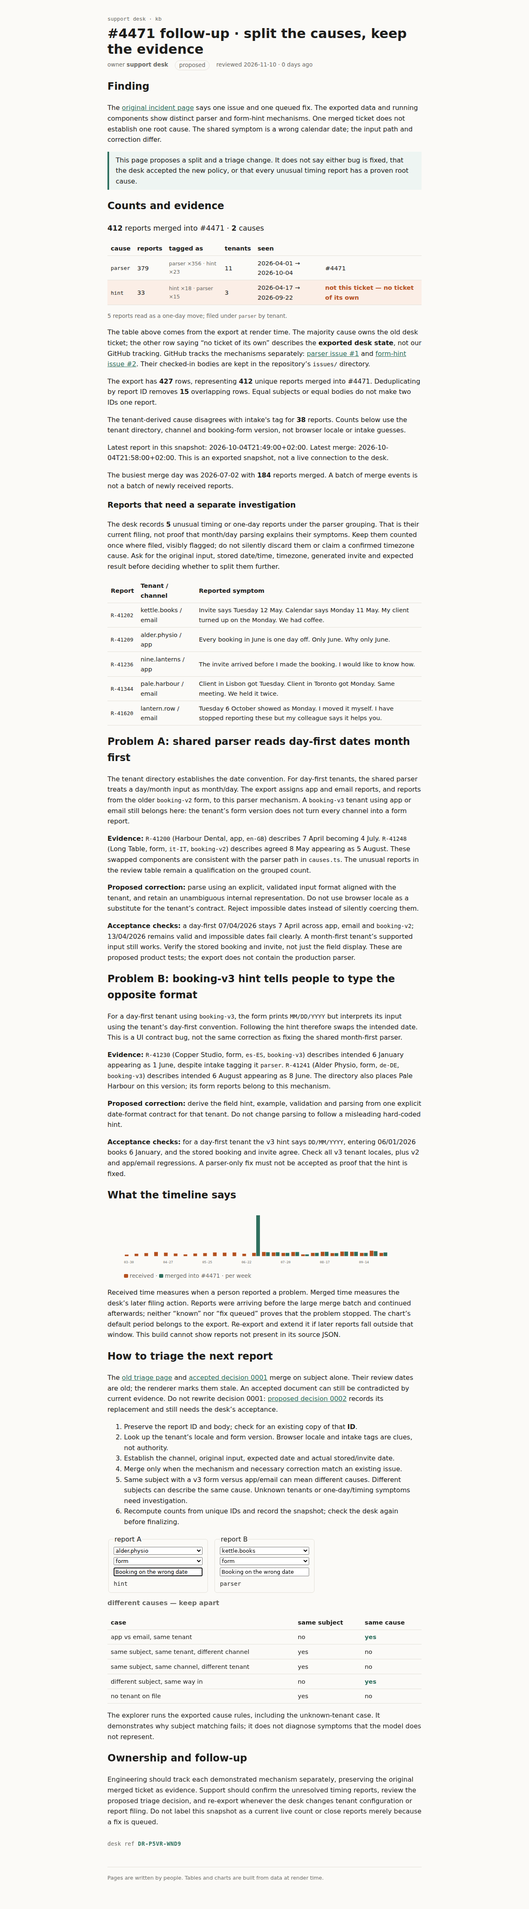
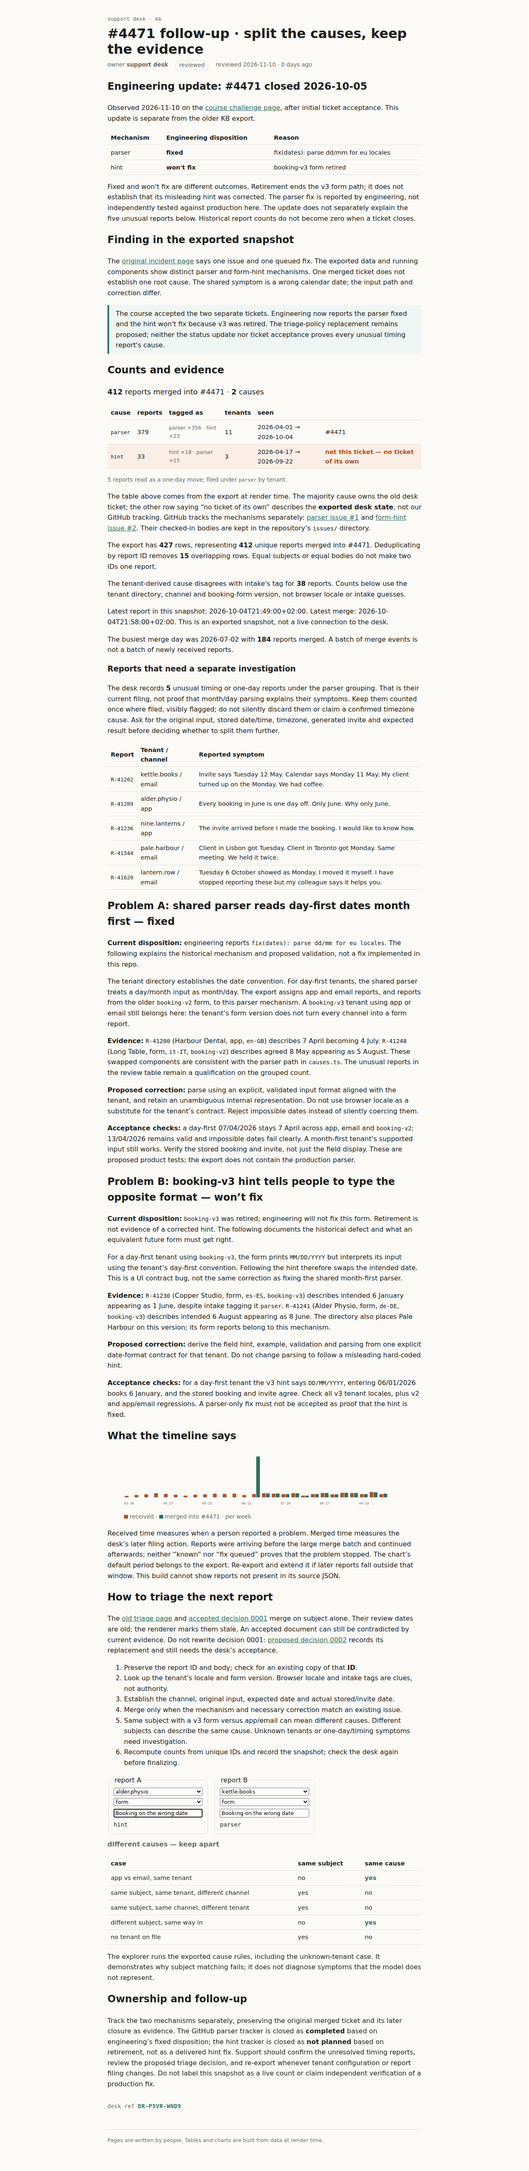
Record engineering closure: parser fixed, v3 hint retired

Changed region(s): [[0.1875, 0.0, 0.7812, 0.9978], [0.7188, 0.0, 0.75, 0.0312]]

diff --git a/docs/kb/incidents/4471-follow-up/index.html b/docs/kb/incidents/4471-follow-up/index.html
@@ -57,11 +57,17 @@
   .stamp.svelte-1280m42 b:where(.svelte-1280m42) { color: var(--accent); letter-spacing: 0.04em; }
   .missing.svelte-1280m42 { color: var(--warn); }
 
[2 lines of base64/hex data omitted]
+    after initial ticket acceptance. This update is separate from the older KB export.</p> <table><thead><tr><th>Mechanism</th><th>Engineering disposition</th><th>Reason</th></tr></thead><tbody><tr><td>parser</td><td><strong>fixed</strong></td><td>fix(dates): parse dd/mm for eu locales</td></tr><tr><td>hint</td><td><strong>won't fix</strong></td><td>booking-v3 form retired</td></tr></tbody></table> <p>Fixed and won't fix are different outcomes. Retirement ends the v3 form path;
+    it does not establish that its misleading hint was corrected.
+    The parser fix is reported by engineering, not independently tested against production here.
+    The update does not separately explain the five unusual reports below.
+    Historical report counts do not become zero when a ticket closes.</p></section><!----> <h2>Finding in the exported snapshot</h2> <p>The <a href="/kb/incidents/4471">original incident page</a> says one issue and one queued fix.
 The exported data and running components show distinct parser and form-hint mechanisms.
 One merged ticket does not establish one root cause. The shared symptom is a wrong calendar date;
-the input path and correction differ.</p> <aside class="note svelte-17bri61"><!---->This page proposes a split and a triage change. It does not say either bug is fixed, that the
-desk accepted the new policy, or that every unusual timing report has a proven root cause.<!----></aside><!----> <h2>Counts and evidence</h2> <p class="sum svelte-12oyimm"><strong>412</strong> reports merged into #4471 · <strong>2</strong> causes</p> <table><thead><tr><th>cause</th><th>reports</th><th>tagged as</th><th>tenants</th><th>seen</th><th></th></tr></thead><tbody><!--[--><tr class="svelte-12oyimm"><td class="svelte-12oyimm"><code>parser</code></td><td class="svelte-12oyimm">379</td><td class="tags svelte-12oyimm">parser ×356 · hint ×23</td><td class="svelte-12oyimm">11</td><td class="svelte-12oyimm">2026-04-01 → 2026-10-04</td><td class="svelte-12oyimm">#4471</td></tr><tr class="svelte-12oyimm wrong"><td class="svelte-12oyimm"><code>hint</code></td><td class="svelte-12oyimm">33</td><td class="tags svelte-12oyimm">hint ×18 · parser ×15</td><td class="svelte-12oyimm">3</td><td class="svelte-12oyimm">2026-04-17 → 2026-09-22</td><td class="svelte-12oyimm">not this ticket — no ticket of its own</td></tr><!--]--></tbody></table> <!--[--><!--[0--><p class="note svelte-12oyimm">5 reports read as a one-day move; filed under <code>parser</code> by tenant.</p><!--]--><!--[-1--><!--]--><!--]--><!----> <p>The table above comes from the export at render time. The majority cause owns the old desk ticket;
+the input path and correction differ.</p> <aside class="note svelte-17bri61"><!---->The course accepted the two separate tickets. Engineering now reports the parser fixed and the
+hint won't fix because v3 was retired. The triage-policy replacement remains proposed;
+neither the status update nor ticket acceptance proves every unusual timing report's cause.<!----></aside><!----> <h2>Counts and evidence</h2> <p class="sum svelte-12oyimm"><strong>412</strong> reports merged into #4471 · <strong>2</strong> causes</p> <table><thead><tr><th>cause</th><th>reports</th><th>tagged as</th><th>tenants</th><th>seen</th><th></th></tr></thead><tbody><!--[--><tr class="svelte-12oyimm"><td class="svelte-12oyimm"><code>parser</code></td><td class="svelte-12oyimm">379</td><td class="tags svelte-12oyimm">parser ×356 · hint ×23</td><td class="svelte-12oyimm">11</td><td class="svelte-12oyimm">2026-04-01 → 2026-10-04</td><td class="svelte-12oyimm">#4471</td></tr><tr class="svelte-12oyimm wrong"><td class="svelte-12oyimm"><code>hint</code></td><td class="svelte-12oyimm">33</td><td class="tags svelte-12oyimm">hint ×18 · parser ×15</td><td class="svelte-12oyimm">3</td><td class="svelte-12oyimm">2026-04-17 → 2026-09-22</td><td class="svelte-12oyimm">not this ticket — no ticket of its own</td></tr><!--]--></tbody></table> <!--[--><!--[0--><p class="note svelte-12oyimm">5 reports read as a one-day move; filed under <code>parser</code> by tenant.</p><!--]--><!--[-1--><!--]--><!--]--><!----> <p>The table above comes from the export at render time. The majority cause owns the old desk ticket;
 the other row saying “no ticket of its own” describes the <strong>exported desk state</strong>, not our GitHub tracking.
 GitHub tracks the mechanisms separately: <a href="https://github.com/piotrczarnak/mega-s01e03-what-it-shows/issues/1" rel="nofollow">parser issue #1</a> and <a href="https://github.com/piotrczarnak/mega-s01e03-what-it-shows/issues/2" rel="nofollow">form-hint issue #2</a>.
 Their checked-in bodies are kept in the repository’s <code>issues/</code> directory.</p> <section aria-label="Snapshot and counting method"><p>The export has <strong>427</strong> rows, representing <strong>412</strong> unique reports merged into #4471.
@@ -73,7 +79,8 @@ Their checked-in bodies are kept in the repository’s <code>issues/</code> dire
       A batch of merge events is not a batch of newly received reports.</p><!--]--></section> <h3>Reports that need a separate investigation</h3> <p>The desk records <strong>5</strong> unusual timing or one-day reports under the parser grouping.
   That is their current filing, not proof that month/day parsing explains their symptoms.
   Keep them counted once where filed, visibly flagged; do not silently discard them or claim a confirmed timezone cause.
-  Ask for the original input, stored date/time, timezone, generated invite and expected result before deciding whether to split them further.</p> <table><thead><tr><th>Report</th><th>Tenant / channel</th><th>Reported symptom</th></tr></thead><tbody><!--[--><tr><td><code>R-41202</code></td><td>kettle.books / email</td><td>Invite says Tuesday 12 May. Calendar says Monday 11 May. My client turned up on the Monday. We had coffee.</td></tr><tr><td><code>R-41209</code></td><td>alder.physio / app</td><td>Every booking in June is one day off. Only June. Why only June.</td></tr><tr><td><code>R-41236</code></td><td>nine.lanterns / app</td><td>The invite arrived before I made the booking. I would like to know how.</td></tr><tr><td><code>R-41344</code></td><td>pale.harbour / email</td><td>Client in Lisbon got Tuesday. Client in Toronto got Monday. Same meeting. We held it twice.</td></tr><tr><td><code>R-41620</code></td><td>lantern.row / email</td><td>Tuesday 6 October showed as Monday. I moved it myself. I have stopped reporting these but my colleague says it helps you.</td></tr><!--]--></tbody></table><!----> <h2>Problem A: shared parser reads day-first dates month first</h2> <p>The tenant directory establishes the date convention. For day-first tenants, the shared parser
+  Ask for the original input, stored date/time, timezone, generated invite and expected result before deciding whether to split them further.</p> <table><thead><tr><th>Report</th><th>Tenant / channel</th><th>Reported symptom</th></tr></thead><tbody><!--[--><tr><td><code>R-41202</code></td><td>kettle.books / email</td><td>Invite says Tuesday 12 May. Calendar says Monday 11 May. My client turned up on the Monday. We had coffee.</td></tr><tr><td><code>R-41209</code></td><td>alder.physio / app</td><td>Every booking in June is one day off. Only June. Why only June.</td></tr><tr><td><code>R-41236</code></td><td>nine.lanterns / app</td><td>The invite arrived before I made the booking. I would like to know how.</td></tr><tr><td><code>R-41344</code></td><td>pale.harbour / email</td><td>Client in Lisbon got Tuesday. Client in Toronto got Monday. Same meeting. We held it twice.</td></tr><tr><td><code>R-41620</code></td><td>lantern.row / email</td><td>Tuesday 6 October showed as Monday. I moved it myself. I have stopped reporting these but my colleague says it helps you.</td></tr><!--]--></tbody></table><!----> <h2>Problem A: shared parser reads day-first dates month first — fixed</h2> <p><strong>Current disposition:</strong> engineering reports <code>fix(dates): parse dd/mm for eu locales</code>.
+The following explains the historical mechanism and proposed validation, not a fix implemented in this repo.</p> <p>The tenant directory establishes the date convention. For day-first tenants, the shared parser
 treats a day/month input as month/day. The export assigns app and email reports, and reports from
 the older <code>booking-v2</code> form, to this parser mechanism. A <code>booking-v3</code> tenant using app or email
 still belongs here: the tenant’s form version does not turn every channel into a form report.</p> <p><strong>Evidence:</strong> <code>R-41200</code> (Harbour Dental, app, <code>en-GB</code>) describes 7 April becoming 4 July. <code>R-41248</code> (Long Table, form, <code>it-IT</code>, <code>booking-v2</code>) describes agreed 8 May appearing as 5 August.
@@ -83,7 +90,9 @@ and retain an unambiguous internal representation. Do not use browser locale as 
 for the tenant’s contract. Reject impossible dates instead of silently coercing them.</p> <p><strong>Acceptance checks:</strong> a day-first 07/04/2026 stays 7 April across app, email and <code>booking-v2</code>;
 13/04/2026 remains valid and impossible dates fail clearly. A month-first tenant’s supported
 input still works. Verify the stored booking and invite, not just the field display.
-These are proposed product tests; the export does not contain the production parser.</p> <h2>Problem B: booking-v3 hint tells people to type the opposite format</h2> <p>For a day-first tenant using <code>booking-v3</code>, the form prints <code>MM/DD/YYYY</code> but interprets its input
+These are proposed product tests; the export does not contain the production parser.</p> <h2>Problem B: booking-v3 hint tells people to type the opposite format — won’t fix</h2> <p><strong>Current disposition:</strong> <code>booking-v3</code> was retired; engineering will not fix this form.
+Retirement is not evidence of a corrected hint. The following documents the historical defect
+and what an equivalent future form must get right.</p> <p>For a day-first tenant using <code>booking-v3</code>, the form prints <code>MM/DD/YYYY</code> but interprets its input
 using the tenant’s day-first convention. Following the hint therefore swaps the intended date.
 This is a UI contract bug, not the same correction as fixing the shared month-first parser.</p> <p><strong>Evidence:</strong> <code>R-41230</code> (Copper Studio, form, <code>es-ES</code>, <code>booking-v3</code>) describes intended 6 January
 appearing as 1 June, despite intake tagging it <code>parser</code>. <code>R-41241</code> (Alder Physio, form, <code>de-DE</code>, <code>booking-v3</code>) describes intended 6 August appearing as 8 June.
@@ -98,7 +107,9 @@ outside that window. This build cannot show reports not present in its source JS
 An accepted document can still be contradicted by current evidence.
 Do not rewrite decision 0001: <a href="/kb/decisions/0002-dedupe-by-cause">proposed decision 0002</a> records its replacement and still needs the desk’s acceptance.</p> <ol><li>Preserve the report ID and body; check for an existing copy of that <strong>ID</strong>.</li> <li>Look up the tenant’s locale and form version. Browser locale and intake tags are clues, not authority.</li> <li>Establish the channel, original input, expected date and actual stored/invite date.</li> <li>Merge only when the mechanism and necessary correction match an existing issue.</li> <li>Same subject with a v3 form versus app/email can mean different causes. Different subjects
 can describe the same cause. Unknown tenants or one-day/timing symptoms need investigation.</li> <li>Recompute counts from unique IDs and record the snapshot; check the desk again before finalizing.</li></ol> <div class="try svelte-gq0h2h"><!--[--><fieldset class="svelte-gq0h2h"><legend>report A</legend> <select aria-label="tenant"><!--[--><option selected="">alder.physio</option><option>copper.studio</option><option>harbour.dental</option><option>kettle.books</option><option>lantern.row</option><option>long.table</option><option>morrow.tax</option><option>nine.lanterns</option><option>pale.harbour</option><option>ridge.clinic</option><option>stone.and.sons</option><!--]--></select> <select aria-label="channel"><!--[--><option>app</option><option>email</option><option selected="">form</option><!--]--></select> <input value="Booking on the wrong date" aria-label="subject"/> <code>hint</code></fieldset><fieldset class="svelte-gq0h2h"><legend>report B</legend> <select aria-label="tenant"><!--[--><option>alder.physio</option><option>copper.studio</option><option>harbour.dental</option><option selected="">kettle.books</option><option>lantern.row</option><option>long.table</option><option>morrow.tax</option><option>nine.lanterns</option><option>pale.harbour</option><option>ridge.clinic</option><option>stone.and.sons</option><!--]--></select> <select aria-label="channel"><!--[--><option>app</option><option>email</option><option selected="">form</option><!--]--></select> <input value="Booking on the wrong date" aria-label="subject"/> <code>parser</code></fieldset><!--]--> <p class="verdict svelte-gq0h2h">different causes — keep apart</p></div> <table><thead><tr><th>case</th><th>same subject</th><th>same cause</th></tr></thead><tbody><!--[--><tr><td>app vs email, same tenant</td><td>no</td><td class="svelte-gq0h2h dup">yes</td></tr><tr><td>same subject, same tenant, different channel</td><td>yes</td><td class="svelte-gq0h2h">no</td></tr><tr><td>same subject, same channel, different tenant</td><td>yes</td><td class="svelte-gq0h2h">no</td></tr><tr><td>different subject, same way in</td><td>no</td><td class="svelte-gq0h2h dup">yes</td></tr><tr><td>no tenant on file</td><td>yes</td><td class="svelte-gq0h2h">no</td></tr><!--]--></tbody></table><!----> <p>The explorer runs the exported cause rules, including the unknown-tenant case. It demonstrates
-why subject matching fails; it does not diagnose symptoms that the model does not represent.</p> <h2>Ownership and follow-up</h2> <p>Engineering should track each demonstrated mechanism separately, preserving the original merged
-ticket as evidence. Support should confirm the unresolved timing reports, review the proposed
-triage decision, and re-export whenever the desk changes tenant configuration or report filing.
-Do not label this snapshot as a current live count or close reports merely because a fix is queued.</p> <!--[0--><p class="stamp svelte-1280m42">desk ref <b class="svelte-1280m42">DR-P5VR-WND9</b></p><!--]--><!----><!----></main> <footer class="svelte-e2jw2j">Pages are written by people. Tables and charts are built from data at render time.</footer></div><!--]--></body></html>
+why subject matching fails; it does not diagnose symptoms that the model does not represent.</p> <h2>Ownership and follow-up</h2> <p>Track the two mechanisms separately, preserving the original merged ticket and its later closure
+as evidence. The GitHub parser tracker is closed as <strong>completed</strong> based on engineering’s fixed disposition;
+the hint tracker is closed as <strong>not planned</strong> based on retirement, not as a delivered hint fix.
+Support should confirm the unresolved timing reports, review the proposed triage decision,
+and re-export whenever tenant configuration or report filing changes.
+Do not label this snapshot as a live count or claim independent verification of a production fix.</p> <!--[0--><p class="stamp svelte-1280m42">desk ref <b class="svelte-1280m42">DR-P5VR-WND9</b></p><!--]--><!----><!----></main> <footer class="svelte-e2jw2j">Pages are written by people. Tables and charts are built from data at render time.</footer></div><!--]--></body></html>

diff --git a/docs/assets/_page-zLjgH6nB.js b/docs/assets/_page-zLjgH6nB.js
@@ -1,0 +1,56 @@
+import{i as e,t}from"./runbook-CZgHsC9r.js";import{A as n,C as r,E as i,F as a,H as o,I as s,J as c,L as l,M as u,O as d,P as f,R as p,U as m,V as h,Y as g,_,a as v,b as y,c as b,g as x,i as S,k as C,n as w,q as T,w as E,x as D,y as O}from"./index-client-CcY5gam-.js";import{i as k,n as A,r as j,t as M}from"./QueueTimeline-BsFNAAdd.js";import{t as N}from"./DedupeExplorer-V1cHSvzB.js";import{a as P,l as F,r as I,t as L}from"./Callout-CdjLJoqq.js";import{t as R}from"./RenderStamp-CsqvxVXC.js";z[g]=`src/lib/kb/FollowUpEvidence.svelte`;var ee=C(i(`<p>The busiest merge day was <time> </time> with <strong> </strong> reports merged.
+      A batch of merge events is not a batch of newly received reports.</p>`),z[g],[[42,4,[[43,32],[43,63]]]]),te=C(i(`<tr><td><code> </code></td><td> </td><td> </td></tr>`),z[g],[[60,6,[[60,10,[[60,14]]],[60,38],[60,71]]]]),ne=C(i(`<section aria-label="Snapshot and counting method"><p>The export has <strong> </strong> rows, representing <strong> </strong> unique reports merged into #4471.
+    Deduplicating by report ID removes <strong> </strong> overlapping rows.
+    Equal subjects or equal bodies do not make two IDs one report.</p> <p>The tenant-derived cause disagrees with intake's tag for <strong> </strong> reports.
+    Counts below use the tenant directory, channel and booking-form version, not browser locale or intake guesses.</p> <p>Latest report in this snapshot: <time> </time>.
+    Latest merge: <time> </time>.
+    This is an exported snapshot, not a live connection to the desk.</p> <!></section> <h3>Reports that need a separate investigation</h3> <p>The desk records <strong> </strong> unusual timing or one-day reports under the parser grouping.
+  That is their current filing, not proof that month/day parsing explains their symptoms.
+  Keep them counted once where filed, visibly flagged; do not silently discard them or claim a confirmed timezone cause.
+  Ask for the original input, stored date/time, timezone, generated invite and expected result before deciding whether to split them further.</p> <table><thead><tr><th>Report</th><th>Tenant / channel</th><th>Reported symptom</th></tr></thead><tbody></tbody></table>`,1),z[g],[[25,0,[[26,2,[[27,19],[28,4],[29,39]]],[32,2,[[33,61]]],[36,2,[[37,36],[38,18]]]]],[49,0],[50,0,[[51,19]]],[56,0,[[57,2,[[57,9,[[57,13],[57,28],[57,53]]]]],[58,2]]]]);function z(e,t){y(new.target),m(t,!1,z);let i=F(k),d=i.filter(e=>p(e.mergedInto,4471)),g=P(d,I),b=d.filter(e=>j.oneDayMove.includes(e.id)),x=g.reduce((e,t)=>e+t.reports.filter(e=>p(e.meta.intakeTag,t.cause,!1)).length,0),S=d.map(e=>e.receivedAt).sort().at(-1),C=d.map(e=>e.mergedAt).filter(Boolean).sort().at(-1),w=new Map;for(let e of d)if(e.mergedAt){let t=e.mergedAt.slice(0,10);w.set(t,(w.get(t)??0)+1)}let A=[...w].sort((e,t)=>t[1]-e[1])[0];var M={...D()};v();var N=ne(),L=a(N),R=f(L),B=l(f(R)),V=s(B,!0),H=l(B,2),U=s(H,!0),W=l(H,2),G=s(W,!0);T(),c(R);var K=l(R,2),re=l(f(K)),ie=s(re,!0);T(),c(K);var q=l(K,2),J=l(f(q)),Y=s(J,!0),X=l(J,2),ae=s(X,!0);T(),c(q);var oe=l(q,2),se=e=>{var t=ee(),n=l(f(t)),i=s(n,!0),a=l(n,2),o=s(a,!0);T(),c(t),u(()=>{r(i,A[0]),r(o,A[1])}),E(e,t)};h(()=>O(oe,e=>{A&&e(se)}),`if`,z,41,2),c(L);var Z=l(L,4),ce=l(f(Z)),le=s(ce,!0);T(),c(Z);var Q=l(Z,2),$=l(f(Q));return h(()=>_($,5,()=>b,e=>e.id,(e,t)=>{var i=te(),a=f(i),o=f(a),d=s(o,!0);c(a);var p=l(a),m=s(p),h=l(p),g=s(h,!0);c(i),u(()=>{r(d,n(t).id),r(m,`${n(t).tenant??``} / ${n(t).channel??``}`),r(g,n(t).body)}),E(e,i)}),`each`,z,59,4),c($),c(Q),u(()=>{r(V,k.length),r(U,d.length),r(G,k.length-i.length),r(ie,x),r(Y,S),r(ae,C),r(le,b.length)}),E(e,N),o(M)}var B={ticket:4471,closedOn:`2026-10-05`,observedOn:`2026-11-10`,source:`https://hq.mega.dev/challenges/what-it-shows`,sourceSection:`NEW · DESK UPDATE / engineering update`,parser:{status:`fixed`,message:`fix(dates): parse dd/mm for eu locales`},hint:{status:`won't fix`,message:`booking-v3 form retired`}};H[g]=`src/lib/kb/EngineeringUpdate.svelte`;var V=C(i(`<section aria-label="Current engineering disposition"><h2> </h2> <p> <a>course challenge page</a>,
+    after initial ticket acceptance. This update is separate from the older KB export.</p> <table><thead><tr><th>Mechanism</th><th>Engineering disposition</th><th>Reason</th></tr></thead><tbody><tr><td>parser</td><td><strong> </strong></td><td> </td></tr><tr><td>hint</td><td><strong> </strong></td><td> </td></tr></tbody></table> <p>Fixed and won't fix are different outcomes. Retirement ends the v3 form path;
+    it does not establish that its misleading hint was corrected.
+    The parser fix is reported by engineering, not independently tested against production here.
+    The update does not separately explain the five unusual reports below.
+    Historical report counts do not become zero when a ticket closes.</p></section>`),H[g],[[5,0,[[6,2],[7,2,[[8,40]]],[11,2,[[12,4,[[12,11,[[12,15],[12,33],[12,65]]]]],[13,4,[[14,6,[[14,10],[14,25,[[14,29]]],[14,73]]],[15,6,[[15,10],[15,23,[[15,27]]],[15,69]]]]]]],[18,2]]]]);function H(e,t){y(new.target),m(t,!1,H);var n={...D()};v();var i=V(),a=f(i),d=s(a),p=l(a,2),h=f(p),g=l(h);T(),c(p);var _=l(p,2),x=l(f(_)),S=f(x),C=l(f(S)),w=f(C),O=s(w,!0);c(C);var k=l(C),A=s(k,!0);c(S);var j=l(S),M=l(f(j)),N=f(M),P=s(N,!0);c(M);var F=l(M),I=s(F,!0);return c(j),c(x),c(_),T(2),c(i),u(()=>{r(d,`Engineering update: #${B.ticket??``} closed ${B.closedOn??``}`),r(h,`Observed ${B.observedOn??``} on the `),b(g,`href`,B.source),r(O,B.parser.status),r(A,B.parser.message),r(P,B.hint.status),r(I,B.hint.message)}),E(e,i),o(n)}var U=e({default:()=>X,metadata:()=>W});X[g]=`src/routes/kb/incidents/4471-follow-up/+page.svx`;var W={layout:`runbook`,title:`#4471 follow-up · split the causes, keep the evidence`,owner:`support desk`,status:`reviewed`,reviewed:`2026-11-10T00:00:00.000Z`,signature:`OpenCode · litellm/gpt-6.1-sol`},{layout:G,title:K,owner:re,status:ie,reviewed:q,signature:J}=W,Y=C(i(`<!> <h2>Finding in the exported snapshot</h2> <p>The <a href="/kb/incidents/4471">original incident page</a> says one issue and one queued fix.
+The exported data and running components show distinct parser and form-hint mechanisms.
+One merged ticket does not establish one root cause. The shared symptom is a wrong calendar date;
+the input path and correction differ.</p> <!> <h2>Counts and evidence</h2> <!> <p>The table above comes from the export at render time. The majority cause owns the old desk ticket;
+the other row saying “no ticket of its own” describes the <strong>exported desk state</strong>, not our GitHub tracking.
+GitHub tracks the mechanisms separately: <a href="https://github.com/piotrczarnak/mega-s01e03-what-it-shows/issues/1" rel="nofollow">parser issue #1</a> and <a href="https://github.com/piotrczarnak/mega-s01e03-what-it-shows/issues/2" rel="nofollow">form-hint issue #2</a>.
+Their checked-in bodies are kept in the repository’s <code>issues/</code> directory.</p> <!> <h2>Problem A: shared parser reads day-first dates month first — fixed</h2> <p><strong>Current disposition:</strong> engineering reports <code>fix(dates): parse dd/mm for eu locales</code>.
+The following explains the historical mechanism and proposed validation, not a fix implemented in this repo.</p> <p>The tenant directory establishes the date convention. For day-first tenants, the shared parser
+treats a day/month input as month/day. The export assigns app and email reports, and reports from
+the older <code>booking-v2</code> form, to this parser mechanism. A <code>booking-v3</code> tenant using app or email
+still belongs here: the tenant’s form version does not turn every channel into a form report.</p> <p><strong>Evidence:</strong> <code>R-41200</code> (Harbour Dental, app, <code>en-GB</code>) describes 7 April becoming 4 July. <code>R-41248</code> (Long Table, form, <code>it-IT</code>, <code>booking-v2</code>) describes agreed 8 May appearing as 5 August.
+These swapped components are consistent with the parser path in <code>causes.ts</code>.
+The unusual reports in the review table remain a qualification on the grouped count.</p> <p><strong>Proposed correction:</strong> parse using an explicit, validated input format aligned with the tenant,
+and retain an unambiguous internal representation. Do not use browser locale as a substitute
+for the tenant’s contract. Reject impossible dates instead of silently coercing them.</p> <p><strong>Acceptance checks:</strong> a day-first 07/04/2026 stays 7 April across app, email and <code>booking-v2</code>;
+13/04/2026 remains valid and impossible dates fail clearly. A month-first tenant’s supported
+input still works. Verify the stored booking and invite, not just the field display.
+These are proposed product tests; the export does not contain the production parser.</p> <h2>Problem B: booking-v3 hint tells people to type the opposite format — won’t fix</h2> <p><strong>Current disposition:</strong> <code>booking-v3</code> was retired; engineering will not fix this form.
+Retirement is not evidence of a corrected hint. The following documents the historical defect
+and what an equivalent future form must get right.</p> <p>For a day-first tenant using <code>booking-v3</code>, the form prints <code>MM/DD/YYYY</code> but interprets its input
+using the tenant’s day-first convention. Following the hint therefore swaps the intended date.
+This is a UI contract bug, not the same correction as fixing the shared month-first parser.</p> <p><strong>Evidence:</strong> <code>R-41230</code> (Copper Studio, form, <code>es-ES</code>, <code>booking-v3</code>) describes intended 6 January
+appearing as 1 June, despite intake tagging it <code>parser</code>. <code>R-41241</code> (Alder Physio, form, <code>de-DE</code>, <code>booking-v3</code>) describes intended 6 August appearing as 8 June.
+The directory also places Pale Harbour on this version; its form reports belong to this mechanism.</p> <p><strong>Proposed correction:</strong> derive the field hint, example, validation and parsing from one explicit
+date-format contract for that tenant. Do not change parsing to follow a misleading hard-coded hint.</p> <p><strong>Acceptance checks:</strong> for a day-first tenant the v3 hint says <code>DD/MM/YYYY</code>, entering 06/01/2026
+books 6 January, and the stored booking and invite agree. Check all v3 tenant locales, plus v2
+and app/email regressions. A parser-only fix must not be accepted as proof that the hint is fixed.</p> <h2>What the timeline says</h2> <!> <p>Received time measures when a person reported a problem. Merged time measures the desk’s later
+filing action. Reports were arriving before the large merge batch and continued afterwards;
+neither “known” nor “fix queued” proves that the problem stopped.
+The chart’s default period belongs to the export. Re-export and extend it if later reports fall
+outside that window. This build cannot show reports not present in its source JSON.</p> <h2>How to triage the next report</h2> <p>The <a href="/kb/triage/dedupe">old triage page</a> and <a href="/kb/decisions/0001-dedupe-by-subject">accepted decision 0001</a> merge on subject alone. Their review dates are old; the renderer marks them stale.
+An accepted document can still be contradicted by current evidence.
+Do not rewrite decision 0001: <a href="/kb/decisions/0002-dedupe-by-cause">proposed decision 0002</a> records its replacement and still needs the desk’s acceptance.</p> <ol><li>Preserve the report ID and body; check for an existing copy of that <strong>ID</strong>.</li> <li>Look up the tenant’s locale and form version. Browser locale and intake tags are clues, not authority.</li> <li>Establish the channel, original input, expected date and actual stored/invite date.</li> <li>Merge only when the mechanism and necessary correction match an existing issue.</li> <li>Same subject with a v3 form versus app/email can mean different causes. Different subjects
+can describe the same cause. Unknown tenants or one-day/timing symptoms need investigation.</li> <li>Recompute counts from unique IDs and record the snapshot; check the desk again before finalizing.</li></ol> <!> <p>The explorer runs the exported cause rules, including the unknown-tenant case. It demonstrates
+why subject matching fails; it does not diagnose symptoms that the model does not represent.</p> <h2>Ownership and follow-up</h2> <p>Track the two mechanisms separately, preserving the original merged ticket and its later closure
+as evidence. The GitHub parser tracker is closed as <strong>completed</strong> based on engineering’s fixed disposition;
+the hint tracker is closed as <strong>not planned</strong> based on retirement, not as a delivered hint fix.
+Support should confirm the unresolved timing reports, review the proposed triage decision,
+and re-export whenever tenant configuration or report filing changes.
+Do not label this snapshot as a live count or claim independent verification of a production fix.</p> <!>`,1),X[g],[[18,0],[19,0,[[19,7]]],[28,0],[30,0,[[31,58],[32,41],[36,4],[40,53]]],[42,0],[43,0,[[43,3],[43,61]]],[45,0,[[47,10],[47,68]]],[49,0,[[49,3],[49,30],[49,73],[50,0],[50,40],[50,60],[51,64]]],[53,0,[[53,3]]],[56,0,[[56,3],[56,98]]],[60,0],[61,0,[[61,3],[61,41]]],[64,0,[[64,32],[64,73]]],[67,0,[[67,3],[67,30],[67,73],[67,93],[68,47],[68,68],[69,0],[69,20]]],[71,0,[[71,3]]],[73,0,[[73,3],[73,79]]],[76,0],[78,0],[83,0],[84,0,[[84,7],[84,59],[87,30]]],[91,0,[[92,0,[[92,72]]],[93,0],[94,0],[95,0],[96,0],[98,0]]],[101,0],[103,0],[104,0,[[105,52],[106,30]]]]);function X(e,n){y(new.target);let r=w(n,[`children`,`$$slots`,`$$events`,`$$legacy`]);m(n,!1,X);var i={...D()};return h(()=>t(e,S(()=>r,()=>W,{children:x(X,(e,t)=>{var n=Y(),r=a(n);h(()=>H(r,{}),`component`,X,17,0,{componentTag:`EngineeringUpdate`});var i=l(r,6);h(()=>L(i,{children:x(X,(e,t)=>{T();var n=d(`The course accepted the two separate tickets. Engineering now reports the parser fixed and the
+hint won't fix because v3 was retired. The triage-policy replacement remains proposed;
+neither the status update nor ticket acceptance proves every unusual timing report's cause.`);E(e,n)}),$$slots:{default:!0}}),`component`,X,23,0,{componentTag:`Callout`});var o=l(i,4);h(()=>A(o,{ticket:4471}),`component`,X,29,0,{componentTag:`CauseTable`});var s=l(o,4);h(()=>z(s,{}),`component`,X,41,0,{componentTag:`FollowUpEvidence`});var c=l(s,28);h(()=>M(c,{ticket:4471}),`component`,X,77,0,{componentTag:`QueueTimeline`});var u=l(c,10);h(()=>N(u,{}),`component`,X,100,0,{componentTag:`DedupeExplorer`});var f=l(u,8);h(()=>R(f,{get signature(){return J}}),`component`,X,110,0,{componentTag:`RenderStamp`}),E(e,n)}),$$slots:{default:!0}})),`component`,X,15,0,{componentTag:`Layout_MDSVEX_DEFAULT`}),o(i)}export{X as n,W as r,U as t};

diff --git a/docs/kb/index.html b/docs/kb/index.html
@@ -28,5 +28,5 @@
[1 lines of base64/hex data omitted]
   .stale.svelte-tbc1ha { color: var(--warn); font-weight: 600; }
 
[2 lines of base64/hex data omitted]
 computed by a component, not typed into a paragraph.</p><!----></main> <footer class="svelte-e2jw2j">Pages are written by people. Tables and charts are built from data at render time.</footer></div><!--]--></body></html>

diff --git a/docs/assets/kb-client.js b/docs/assets/kb-client.js
@@ -1,2 +1,2 @@
-const __vite__mapDeps=(i,m=__vite__mapDeps,d=(m.f||(m.f=["_page-BwcuWiZp.js","runbook-CZgHsC9r.js","index-client-CcY5gam-.js","_page-4JlLSd_f.js","_page-vZMEOywa.js","RenderStamp-CsqvxVXC.js","_page-qvcHR-nx.js","QueueTimeline-BsFNAAdd.js","Callout-CdjLJoqq.js","_page-CtvAJLyX.js","DedupeExplorer-V1cHSvzB.js","_page-DEHwk7PH.js","_page-yjwrKd70.js","_page-DxXFLj72.js","_page-DXUPo--g.js","_page-n53Mca6h.js","_page-CVOOnyiQ.js"])))=>i.map(i=>d[i]);
-import{S as e}from"./index-client-CcY5gam-.js";var t=`modulepreload`,n=function(e){return`/assets/`+e},r={},i=function(e){return e.pathname.endsWith(`.css`)},a=function(e,t,n){if(t in e)return e[t];let r=n();if(!r){e[t]=void 0;return}let i=r.then(()=>{e[t]=void 0},n=>{throw e[t]=void 0,n});return e[t]=i,i},o=function(e,o,s){let c=Promise.resolve();if(o&&o.length>0){let e,l=document.querySelector(`meta[property=csp-nonce]`),u=l?.nonce||l?.getAttribute(`nonce`);function d(e){return Promise.all(e.map(e=>Promise.resolve(e).then(e=>({status:`fulfilled`,value:e}),e=>({status:`rejected`,reason:e}))))}function f(e){return import.meta.resolve?new URL(import.meta.resolve(e)):new URL(e,import.meta.url)}c=d(o.map(o=>{o=n(o,s);let c=f(o),l=i(c);return a(r,c.href,()=>{if(e===void 0){e={all:new Set,styles:new Set};let t=document.getElementsByTagName(`link`);for(let n=t.length-1;n>=0;n--){let r=t[n];e.all.add(r.href),r.rel===`stylesheet`&&e.styles.add(r.href)}}if((l?e.styles:e.all).has(c.href))return;let n=document.createElement(`link`);if(n.rel=l?`stylesheet`:t,l||(n.as=`script`),n.crossOrigin=``,n.href=c.href,u&&n.setAttribute(`nonce`,u),document.head.appendChild(n),l)return new Promise((e,t)=>{let r=i=>{n.removeEventListener(`load`,r),n.removeEventListener(`error`,r),i.type===`error`?t(Error(`Unable to preload CSS for ${c}`)):e(i)};n.addEventListener(`load`,r),n.addEventListener(`error`,r)})})}).filter(e=>e!==void 0))}function l(e){let t=new Event(`vite:preloadError`,{cancelable:!0});if(t.payload=e,window.dispatchEvent(t),!t.defaultPrevented)throw e}return c.then(t=>{for(let e of t||[])e.status===`rejected`&&l(e.reason);return e().catch(l)})},s=Object.assign({"/src/routes/kb/+page.svx":()=>o(()=>import(`./_page-BwcuWiZp.js`),__vite__mapDeps([0,1,2,3,4,5,6,7,8,9,10,11])),"/src/routes/kb/decisions/0001-dedupe-by-subject/+page.svx":()=>o(()=>import(`./_page-yjwrKd70.js`),__vite__mapDeps([12,3,1,2])),"/src/routes/kb/decisions/0002-dedupe-by-cause/+page.svx":()=>o(()=>import(`./_page-DxXFLj72.js`),__vite__mapDeps([13,4,1,2,5])),"/src/routes/kb/incidents/4471/+page.svx":()=>o(()=>import(`./_page-DXUPo--g.js`),__vite__mapDeps([14,6,1,2,7,8])),"/src/routes/kb/incidents/4471-follow-up/+page.svx":()=>o(()=>import(`./_page-n53Mca6h.js`),__vite__mapDeps([15,9,1,2,7,8,10,5])),"/src/routes/kb/triage/dedupe/+page.svx":()=>o(()=>import(`./_page-CVOOnyiQ.js`),__vite__mapDeps([16,11,1,2,10,8]))}),c=`/src/routes${window.location.pathname.replace(/\/$/,``)}/+page.svx`;if(s[c]){let t=await s[c]();e(t.default,{target:document.body})}
+const __vite__mapDeps=(i,m=__vite__mapDeps,d=(m.f||(m.f=["_page-DoCPL2Vj.js","runbook-CZgHsC9r.js","index-client-CcY5gam-.js","_page-4JlLSd_f.js","_page-vZMEOywa.js","RenderStamp-CsqvxVXC.js","_page-qvcHR-nx.js","QueueTimeline-BsFNAAdd.js","Callout-CdjLJoqq.js","_page-zLjgH6nB.js","DedupeExplorer-V1cHSvzB.js","_page-DEHwk7PH.js","_page-yjwrKd70.js","_page-DxXFLj72.js","_page-DXUPo--g.js","_page-CuPzNOTU.js","_page-CVOOnyiQ.js"])))=>i.map(i=>d[i]);
+import{S as e}from"./index-client-CcY5gam-.js";var t=`modulepreload`,n=function(e){return`/assets/`+e},r={},i=function(e){return e.pathname.endsWith(`.css`)},a=function(e,t,n){if(t in e)return e[t];let r=n();if(!r){e[t]=void 0;return}let i=r.then(()=>{e[t]=void 0},n=>{throw e[t]=void 0,n});return e[t]=i,i},o=function(e,o,s){let c=Promise.resolve();if(o&&o.length>0){let e,l=document.querySelector(`meta[property=csp-nonce]`),u=l?.nonce||l?.getAttribute(`nonce`);function d(e){return Promise.all(e.map(e=>Promise.resolve(e).then(e=>({status:`fulfilled`,value:e}),e=>({status:`rejected`,reason:e}))))}function f(e){return import.meta.resolve?new URL(import.meta.resolve(e)):new URL(e,import.meta.url)}c=d(o.map(o=>{o=n(o,s);let c=f(o),l=i(c);return a(r,c.href,()=>{if(e===void 0){e={all:new Set,styles:new Set};let t=document.getElementsByTagName(`link`);for(let n=t.length-1;n>=0;n--){let r=t[n];e.all.add(r.href),r.rel===`stylesheet`&&e.styles.add(r.href)}}if((l?e.styles:e.all).has(c.href))return;let n=document.createElement(`link`);if(n.rel=l?`stylesheet`:t,l||(n.as=`script`),n.crossOrigin=``,n.href=c.href,u&&n.setAttribute(`nonce`,u),document.head.appendChild(n),l)return new Promise((e,t)=>{let r=i=>{n.removeEventListener(`load`,r),n.removeEventListener(`error`,r),i.type===`error`?t(Error(`Unable to preload CSS for ${c}`)):e(i)};n.addEventListener(`load`,r),n.addEventListener(`error`,r)})})}).filter(e=>e!==void 0))}function l(e){let t=new Event(`vite:preloadError`,{cancelable:!0});if(t.payload=e,window.dispatchEvent(t),!t.defaultPrevented)throw e}return c.then(t=>{for(let e of t||[])e.status===`rejected`&&l(e.reason);return e().catch(l)})},s=Object.assign({"/src/routes/kb/+page.svx":()=>o(()=>import(`./_page-DoCPL2Vj.js`),__vite__mapDeps([0,1,2,3,4,5,6,7,8,9,10,11])),"/src/routes/kb/decisions/0001-dedupe-by-subject/+page.svx":()=>o(()=>import(`./_page-yjwrKd70.js`),__vite__mapDeps([12,3,1,2])),"/src/routes/kb/decisions/0002-dedupe-by-cause/+page.svx":()=>o(()=>import(`./_page-DxXFLj72.js`),__vite__mapDeps([13,4,1,2,5])),"/src/routes/kb/incidents/4471/+page.svx":()=>o(()=>import(`./_page-DXUPo--g.js`),__vite__mapDeps([14,6,1,2,7,8])),"/src/routes/kb/incidents/4471-follow-up/+page.svx":()=>o(()=>import(`./_page-CuPzNOTU.js`),__vite__mapDeps([15,9,1,2,7,8,10,5])),"/src/routes/kb/triage/dedupe/+page.svx":()=>o(()=>import(`./_page-CVOOnyiQ.js`),__vite__mapDeps([16,11,1,2,10,8]))}),c=`/src/routes${window.location.pathname.replace(/\/$/,``)}/+page.svx`;if(s[c]){let t=await s[c]();e(t.default,{target:document.body})}

diff --git a/docs/assets/_page-DoCPL2Vj.js b/docs/assets/_page-DoCPL2Vj.js
@@ -1,4 +1,4 @@
-import{n as e,r as t,t as n}from"./runbook-CZgHsC9r.js";import{A as r,C as i,E as a,F as o,H as s,I as c,J as l,L as u,M as d,P as f,U as p,V as m,Y as h,_ as g,a as _,b as v,c as y,d as b,g as x,i as S,k as C,n as w,p as T,q as E,w as D,x as O}from"./index-client-CcY5gam-.js";import{t as k}from"./_page-4JlLSd_f.js";import{t as A}from"./_page-vZMEOywa.js";import{t as j}from"./_page-qvcHR-nx.js";import{t as M}from"./_page-CtvAJLyX.js";import{t as N}from"./_page-DEHwk7PH.js";L[h]=`src/lib/kb/KbIndex.svelte`;var P=C(a(`<tr><td><a> </a></td><td> </td><td> </td><td> </td></tr>`),L[h],[[16,6,[[17,8,[[17,12]]],[18,8],[19,8],[20,8]]]]),F=C(a(`<table><thead><tr><th>page</th><th>owner</th><th>status</th><th>reviewed</th></tr></thead><tbody></tbody></table>`),L[h],[[12,0,[[13,2,[[13,9,[[13,13],[13,26],[13,40],[13,55]]]]],[14,2]]]]),I={hash:`svelte-tbc1ha`,code:`
+import{n as e,r as t,t as n}from"./runbook-CZgHsC9r.js";import{A as r,C as i,E as a,F as o,H as s,I as c,J as l,L as u,M as d,P as f,U as p,V as m,Y as h,_ as g,a as _,b as v,c as y,d as b,g as x,i as S,k as C,n as w,p as T,q as E,w as D,x as O}from"./index-client-CcY5gam-.js";import{t as k}from"./_page-4JlLSd_f.js";import{t as A}from"./_page-vZMEOywa.js";import{t as j}from"./_page-qvcHR-nx.js";import{t as M}from"./_page-zLjgH6nB.js";import{t as N}from"./_page-DEHwk7PH.js";L[h]=`src/lib/kb/KbIndex.svelte`;var P=C(a(`<tr><td><a> </a></td><td> </td><td> </td><td> </td></tr>`),L[h],[[16,6,[[17,8,[[17,12]]],[18,8],[19,8],[20,8]]]]),F=C(a(`<table><thead><tr><th>page</th><th>owner</th><th>status</th><th>reviewed</th></tr></thead><tbody></tbody></table>`),L[h],[[12,0,[[13,2,[[13,9,[[13,13],[13,26],[13,40],[13,55]]]]],[14,2]]]]),I={hash:`svelte-tbc1ha`,code:`
   .stale.svelte-tbc1ha { color: var(--warn); font-weight: 600; }
 
[1 lines of base64/hex data omitted]

diff --git a/src/lib/kb/EngineeringUpdate.svelte b/src/lib/kb/EngineeringUpdate.svelte
@@ -1,0 +1,25 @@
+<script lang="ts">
+  import update from '#lib/data/engineering-update.json';
+</script>
+
+<section aria-label="Current engineering disposition">
+  <h2>Engineering update: #{update.ticket} closed {update.closedOn}</h2>
+  <p>
+    Observed {update.observedOn} on the <a href={update.source}>course challenge page</a>,
+    after initial ticket acceptance. This update is separate from the older KB export.
+  </p>
+  <table>
+    <thead><tr><th>Mechanism</th><th>Engineering disposition</th><th>Reason</th></tr></thead>
+    <tbody>
+      <tr><td>parser</td><td><strong>{update.parser.status}</strong></td><td>{update.parser.message}</td></tr>
+      <tr><td>hint</td><td><strong>{update.hint.status}</strong></td><td>{update.hint.message}</td></tr>
+    </tbody>
+  </table>
+  <p>
+    Fixed and won't fix are different outcomes. Retirement ends the v3 form path;
+    it does not establish that its misleading hint was corrected.
+    The parser fix is reported by engineering, not independently tested against production here.
+    The update does not separately explain the five unusual reports below.
+    Historical report counts do not become zero when a ticket closes.
+  </p>
+</section>

diff --git a/docs/assets/_page-CuPzNOTU.js b/docs/assets/_page-CuPzNOTU.js
@@ -1,0 +1,1 @@
+export{n as default,r as metadata}from"./_page-zLjgH6nB.js";

diff --git a/ANALYSIS.md b/ANALYSIS.md
@@ -4,6 +4,19 @@ This repository preserves the course's support-KB export and adds a signed,
 evidence-based follow-up. This is fictional course data, not Allegro support data.
 It contains no login links, credentials, browser profile or email-agent files.
 
+## Later engineering disposition
+
+After the course accepted the two tickets, its challenge page revealed an
+engineering update: **#4471 closed 5 October 2026**. The parser is **fixed**
+(`fix(dates): parse dd/mm for eu locales`); the form hint is **won't fix**
+because `booking-v3` was retired. These are different outcomes. Retirement
+does not mean the hint was corrected, and this repo does not independently
+test the production parser fix. The unchanged ZIP did not contain this update.
+The source and exact status text are recorded in
+`src/lib/data/engineering-update.json` and rendered into the follow-up.
+GitHub issue #1 is closed as completed; #2 is closed as not planned, with
+explanatory comments linking those dispositions to the engineering update.
+
 ## Deliverables
 
 - New page: `src/routes/kb/incidents/4471-follow-up/+page.svx`.
